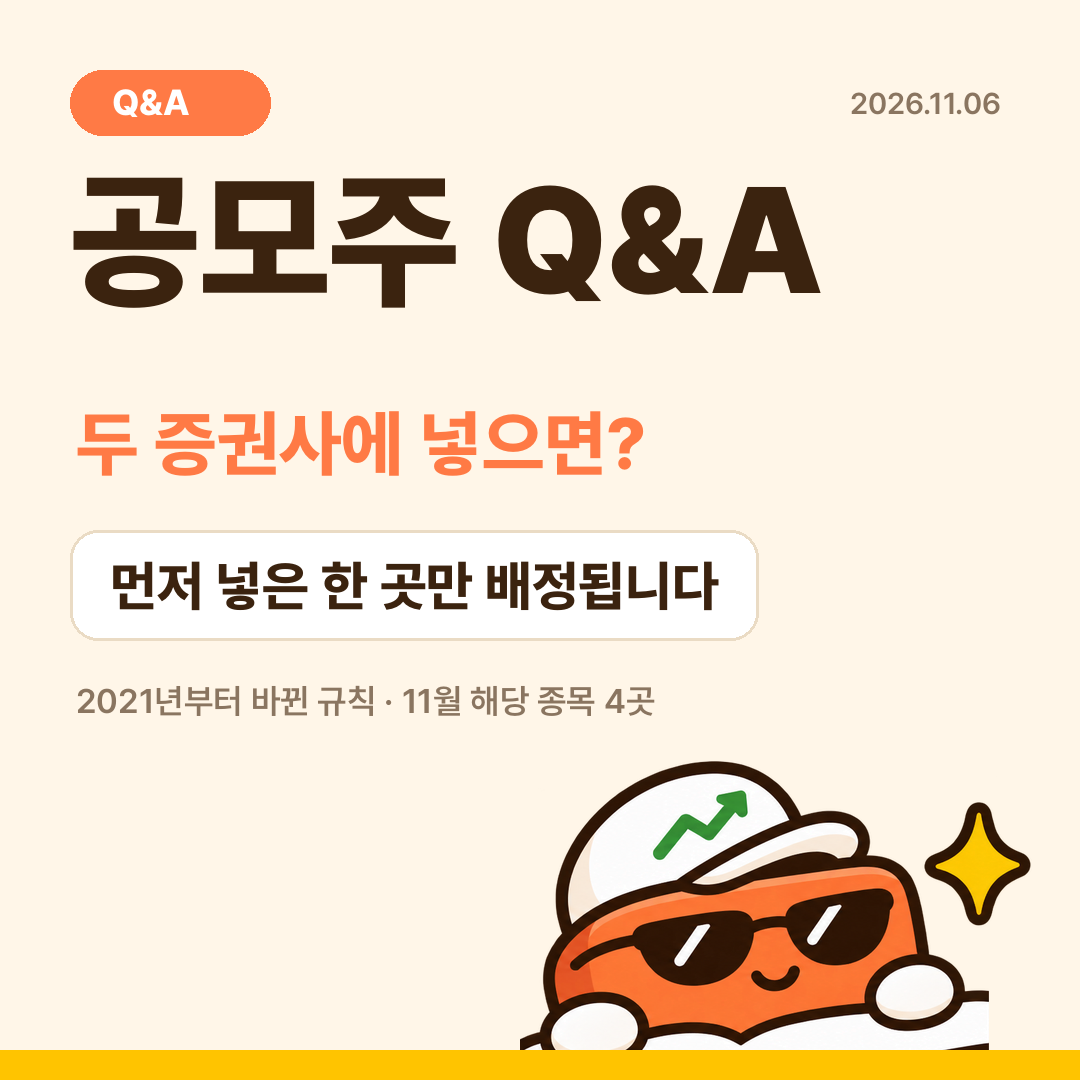
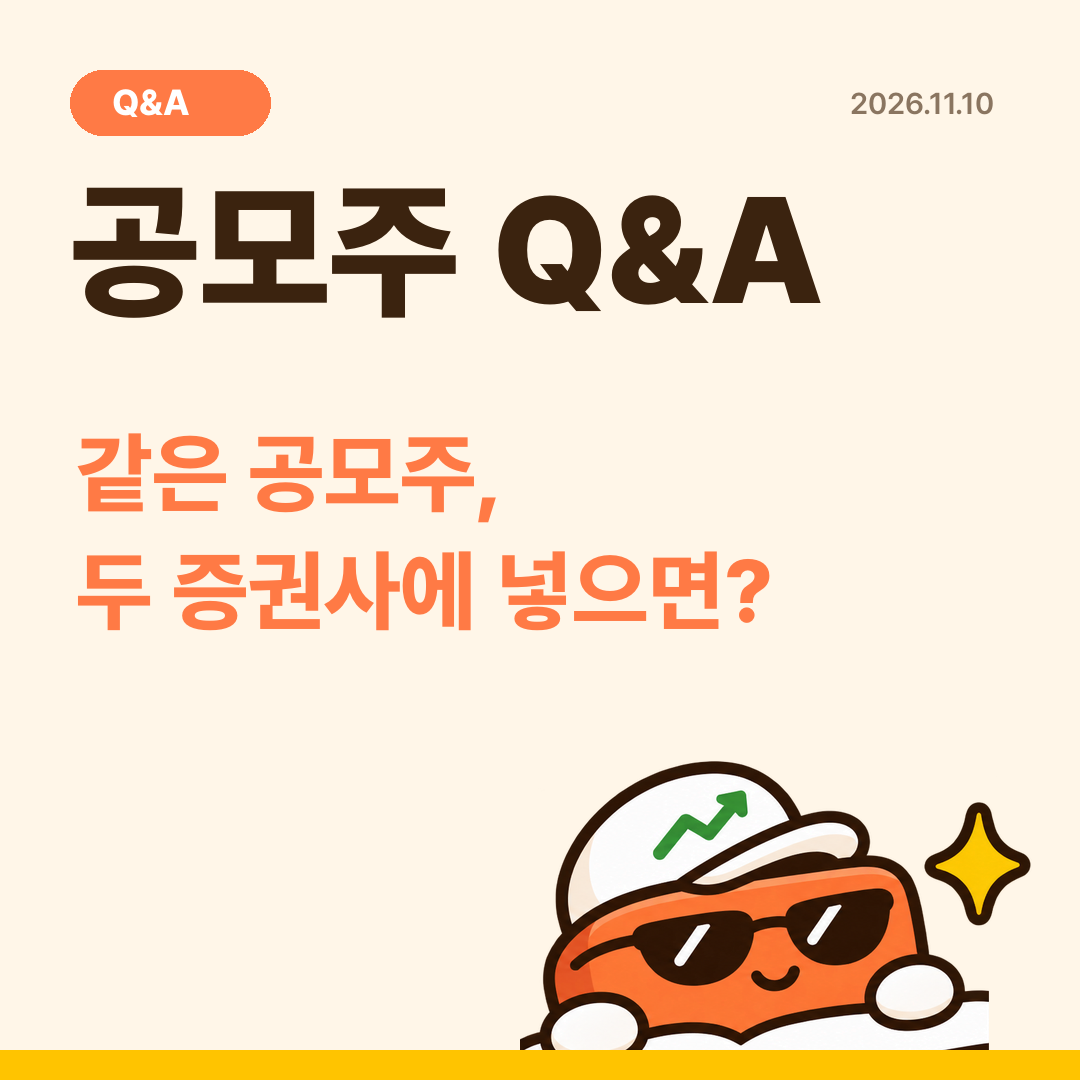
Make Q&A thumbnail show the question only

diff --git a/scripts/make_qa_cards.py b/scripts/make_qa_cards.py
@@ -1,0 +1,43 @@
+"""공모주 Q&A 썸네일 생성기. 답은 넣지 않고 질문만 보여준다.
+
+사용법:
+    python3 scripts/make_qa_cards.py data/qa/<slug>.json   # → qa/<slug>/thumbnail.png
+"""
+import json
+import os
+import sys
+
+from PIL import Image, ImageDraw
+
+from make_cards import BEIGE, BROWN, MUTED, ORANGE, ROOT, WHITE, YELLOW, F, ensure_font, fit, paste_char, rr
+
+
+def thumbnail(c, out):
+    W = H = 1080
+    img = Image.new("RGBA", (W, H), BEIGE); d = ImageDraw.Draw(img)
+    rr(d, (70, 70, 270, 135), 32, fill=ORANGE)
+    d.text((112, 80), "Q&A", font=F("ExtraBold", 36), fill=WHITE)
+    d.text((W - 230, 85), c["date"], font=F("SemiBold", 30), fill=MUTED)
+    d.text((70, 160), "공모주 Q&A", font=F("Black", 150), fill=BROWN)
+    y = 420
+    for line in c["question"]:
+        fs = fit(d, line, "ExtraBold", 88, W - 140)
+        d.text((76, y), line, font=F("ExtraBold", fs), fill=ORANGE)
+        y += fs + 30
+    paste_char(img, 290, (W - 560, H - 320))
+    d.rectangle((0, H - 30, W, H), fill=YELLOW)
+    img.convert("RGB").save(f"{out}/thumbnail.png")
+
+
+def main(path):
+    ensure_font()
+    with open(path, encoding="utf-8") as f:
+        c = json.load(f)
+    out = os.path.join(ROOT, "qa", c["slug"])
+    os.makedirs(out, exist_ok=True)
+    thumbnail(c, out)
+    print("saved to", out)
+
+
+if __name__ == "__main__":
+    main(sys.argv[1])
